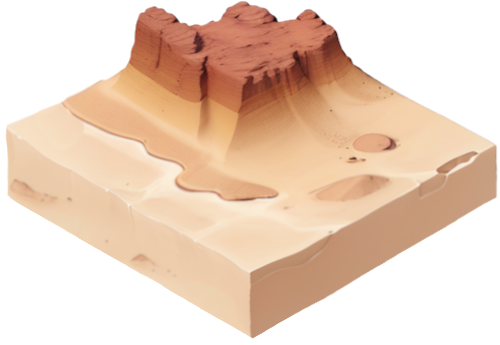
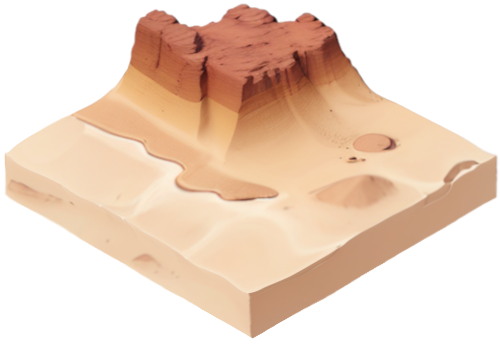
Updating sprite alignment; updating map to draw flat land, hills, and vegetation with separate probabillities

diff --git a/Map.cs b/Map.cs
@@ -3,7 +3,7 @@ using System.Collections.Generic;
 
 public class Map
 {
-    private readonly Point _mapTileSize = new(16, 16);
+    private readonly Point _mapTileSize = new(128, 128);
     private readonly Tile[,] _tiles;
     private readonly List<Building> _buildings;
     private Building _editBuilding;
@@ -22,14 +22,10 @@ public class Map
         _editBuilding = null;
 
         // Load all of the tile textures
-        const int DESERT_TILECOUNT = 5;
-        List<Texture2D> desertTextures = new();
-        for (int i = 1; i <= DESERT_TILECOUNT; i++)
-        {
-            desertTextures.Add(Globals.Content.Load<Texture2D>($"desert/{i:000}"));
-        }
+        List<Texture2D> desertTextures = Sprites.LoadTextures("desert", 6);
+        List<Texture2D> desertVegetationTextures = Sprites.LoadTextures("desert/vegetation", 7);
 
-        // 512x512
+        // 500x345
         TileSize = new(desertTextures[0].Width, desertTextures[0].Height);
         MapSize = new(TileSize.X * _mapTileSize.X, TileSize.Y * _mapTileSize.Y);
         Origin = new(MapSize.X / 2, MapSize.Y / 2);
@@ -44,11 +40,28 @@ public class Map
         {
             for (int x = 0; x < _mapTileSize.X; x++)
             {
+                Texture2D texture = null;
+                double r = random.NextDouble();
+
                 // Assign random tile textures
-                int r = random.Next(0, desertTextures.Count);
-                float xpos = 0f;
+                if (r < 0.6)
+                {
+                    // 50% plain desert
+                    texture = desertTextures[5];
+                }
+                else if (r < 0.7)
+                {
+                    // 20% desert with hills
+                    texture = desertTextures[random.Next(0, desertTextures.Count)];
+                }
+                else
+                {
+                    // 30% desert with vegetation
+                    texture = desertVegetationTextures[random.Next(0, desertVegetationTextures.Count)];
+                }
 
                 // Rows get bigger until halfway, then they get smaller
+                float xpos = 0f;
                 if (row > _mapTileSize.Y)    
                     xpos = -Origin.X + ((TileSize.X / 2) * row) + (tile_in_row * TileSize.X);
                 else
@@ -73,7 +86,7 @@ public class Map
                 }
 
                 Texture2D feature = null;
-                _tiles[x, y] = new(new(xpos, ypos), desertTextures[r], feature);
+                _tiles[x, y] = new(new(xpos, ypos), texture, feature);
             }
         }
     }

diff --git a/Sprites.cs b/Sprites.cs
@@ -30,4 +30,15 @@ static class Sprites
 		int i = r.Next(0, buildings.Count);
 		return buildings[i];
 	}
+
+	// Load path/001 through path/count and return the list of textures
+	public static List<Texture2D> LoadTextures(string path, int count)
+	{
+		List<Texture2D> textures = new();
+        for (int i = 1; i <= count; i++)
+        {
+            textures.Add(Globals.Content.Load<Texture2D>($"{path}/{i:000}"));
+        }
+		return textures;
+	}
 }
